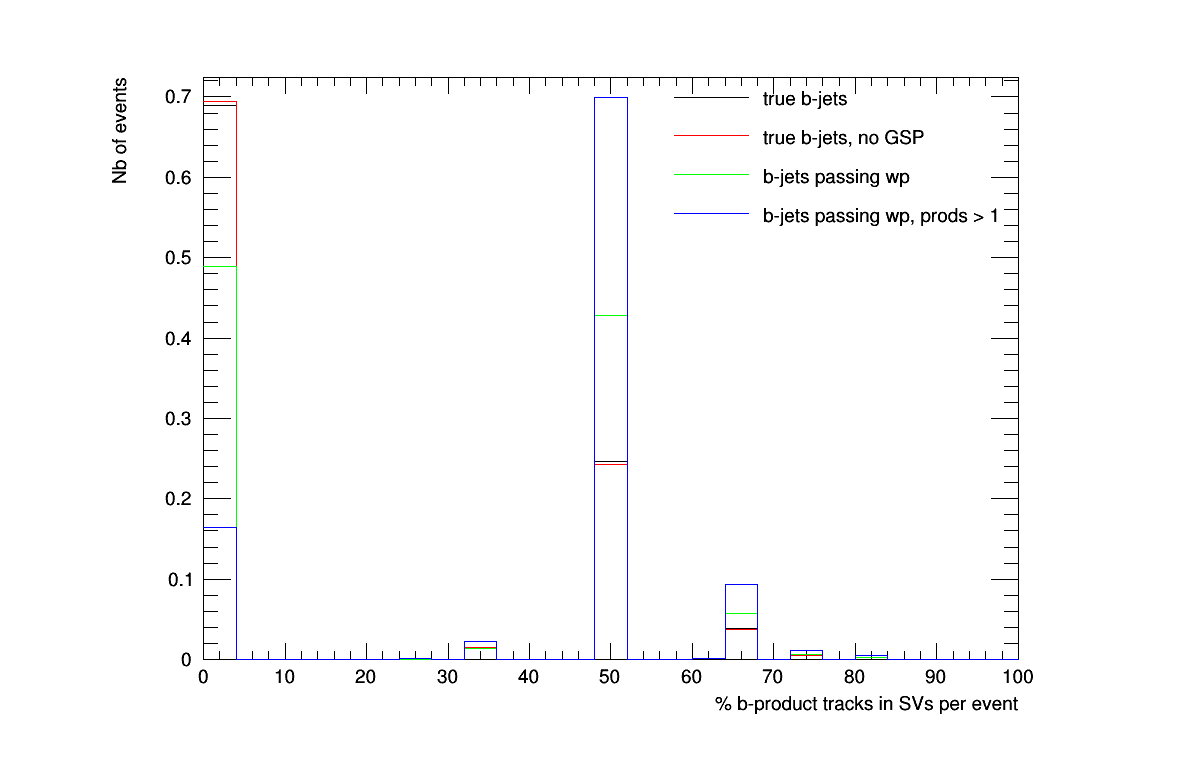
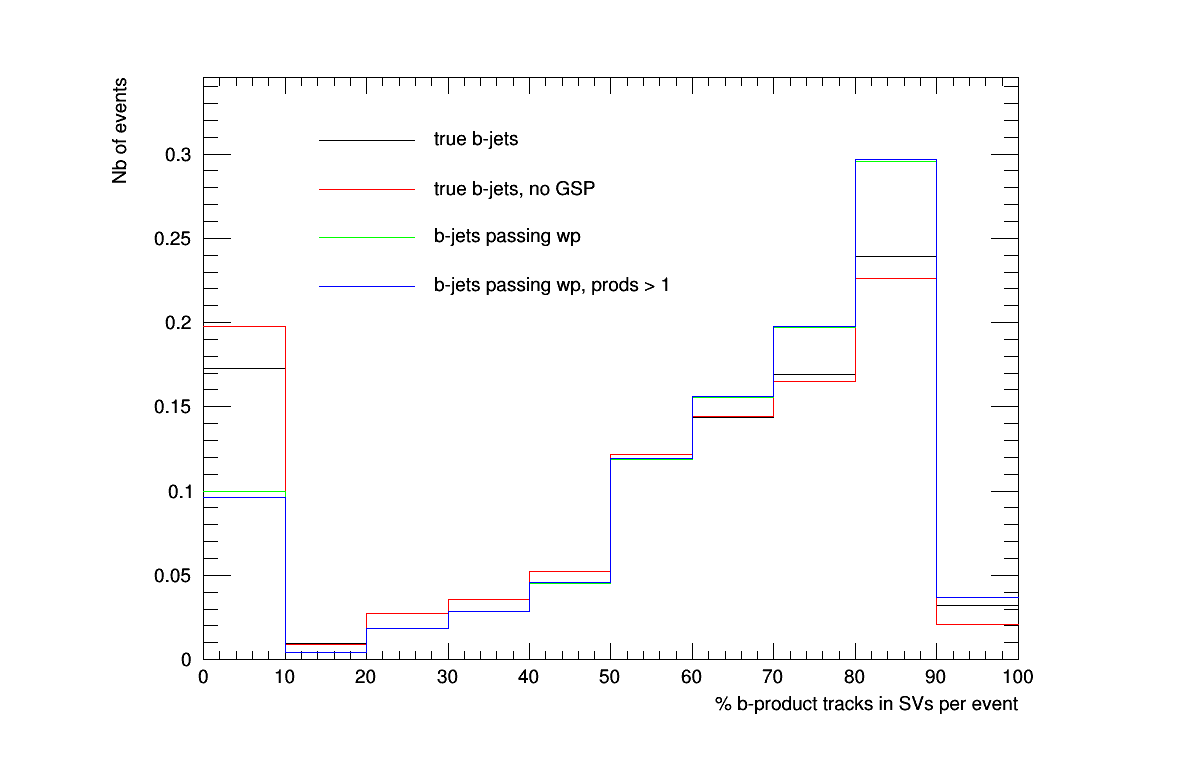
change binning and replot with ptcut

diff --git a/myMacros/svvar_discr_power/draw_svTagInfo.C b/myMacros/svvar_discr_power/draw_svTagInfo.C
@@ -25,18 +25,21 @@ void draw_svTagInfo()
 
     const Int_t nh = 4;
     TH1D *hs[nh] = {hsv_trueB, hsv_trueB_noGSP, hsv_wpB, hsv_wpB_2prod};
-    //Float_t ymax = std::max({hsv_trueB->GetMaximum(), hsv_trueB_noGSP->GetMaximum(), hsv_wpB->GetMaximum()});
     for (Int_t hi = 0; hi < nh; hi++) {
 	    // normalise histogram without underflow
 	    hs[hi]->Scale(1 / hs[hi]->Integral());
         hs[hi]->SetYTitle("Nb of events");
 	    hs[hi]->SetLineColor(hi + 1);
-		//hs[hi]->GetYaxis()->SetRangeUser(0, ymax);
 		//hs[hi]->GetXaxis()->SetRange(0, hs[hi]->GetNbinsX()+1);
-        hs[hi]->Draw("hist same");
+    }
+
+	Float_t ymax = std::max({hsv_trueB->GetMaximum(), hsv_trueB_noGSP->GetMaximum(), hsv_wpB->GetMaximum()}) + 0.05;
+    for (Int_t hi = 0; hi < nh; hi++) {
+	  hs[hi]->GetYaxis()->SetRangeUser(0, ymax);
+	  hs[hi]->Draw("hist same");
 	}
 
-    TLegend *leg = new TLegend(0.55, 0.7, 0.9, 0.9);
+    TLegend *leg = new TLegend(0.25, 0.6, 0.7, 0.85);
     leg->SetBorderSize(0);
 	leg->SetFillStyle(0);
 
